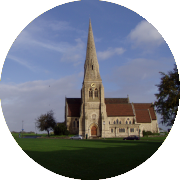
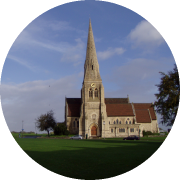
Cleaned up header image & updated The Flat .parking

diff --git a/index.html b/index.html
@@ -59,10 +59,13 @@
                             <p id="landlordContact" class="hidden-text">The landlord's name is Ade (Pronounced: Addie) Jimoh. His number is 0758017905.</p>
                             
                             <h4 class="subtitle-toggle" onclick="toggleVisibility('binDay')"><i class="fa fa-arrow-circle-right"></i>When do the bins need taking out?</h4>
-                            <p id="binDay" class="hidden-text">The bins are collected early on Thursday mornings to it's probably best to make sure they're out on Wednesday evenings. Hopefully the neighbours will take care of it, but they sometimes forget.</p>
+                            <p id="binDay" class="hidden-text">The bins are collected early on Thursday mornings to it's probably best to make sure they're out on Wednesday evenings.
+                            <br><br>Hopefully the neighbours will take care of it, but they sometimes forget.</p>
                             
                             <h4 class="subtitle-toggle" onclick="toggleVisibility('parking')"><i class="fa fa-arrow-circle-right"></i>What if I need to park a car?</h4>
-                            <p id="parking" class="hidden-text">You can register and apply for a Visitor's Permit <a href="https://www.myringgo.co.uk/lewisham/home">here</a>.</p>
+                            <p id="parking" class="hidden-text">You can register and apply for a Visitor's Permit <a href="https://www.myringgo.co.uk/lewisham/home">here</a> or by using the RingGo app.
+                            <br><br><a  href="http://itunes.apple.com/gb/app/ringgo/id342898717?mt=8"><img class="app-download-images" src="assets/images/downloadios.png" alt="Download iPhone App"/></a>
+                                            <a  href="https://market.android.com/details?id=co.uk.ringgo.android"><img class="app-download-images" src="assets/images/downloadandroid.png" alt="Download Android App"/></a></p>
                             
                             <h4 class="subtitle-toggle" onclick="toggleVisibility('groceries')"><i class="fa fa-arrow-circle-right"></i>Where should I get groceries?</h4>
                             <p id="groceries" class="hidden-text">Sample Text <a href="#">Temp Link</a>.</p>

diff --git a/assets/css/custom.css b/assets/css/custom.css
@@ -30,6 +30,11 @@ body {
     border-bottom-right-radius: 10px;
     padding: 0.5em;
 }
+.row .app-download-images {
+    padding: 12px;
+    vertical-align: middle;
+    width: 130px;
+}
 #original-panel {
     color: #31708f;
     background-color: #d9edf7;
